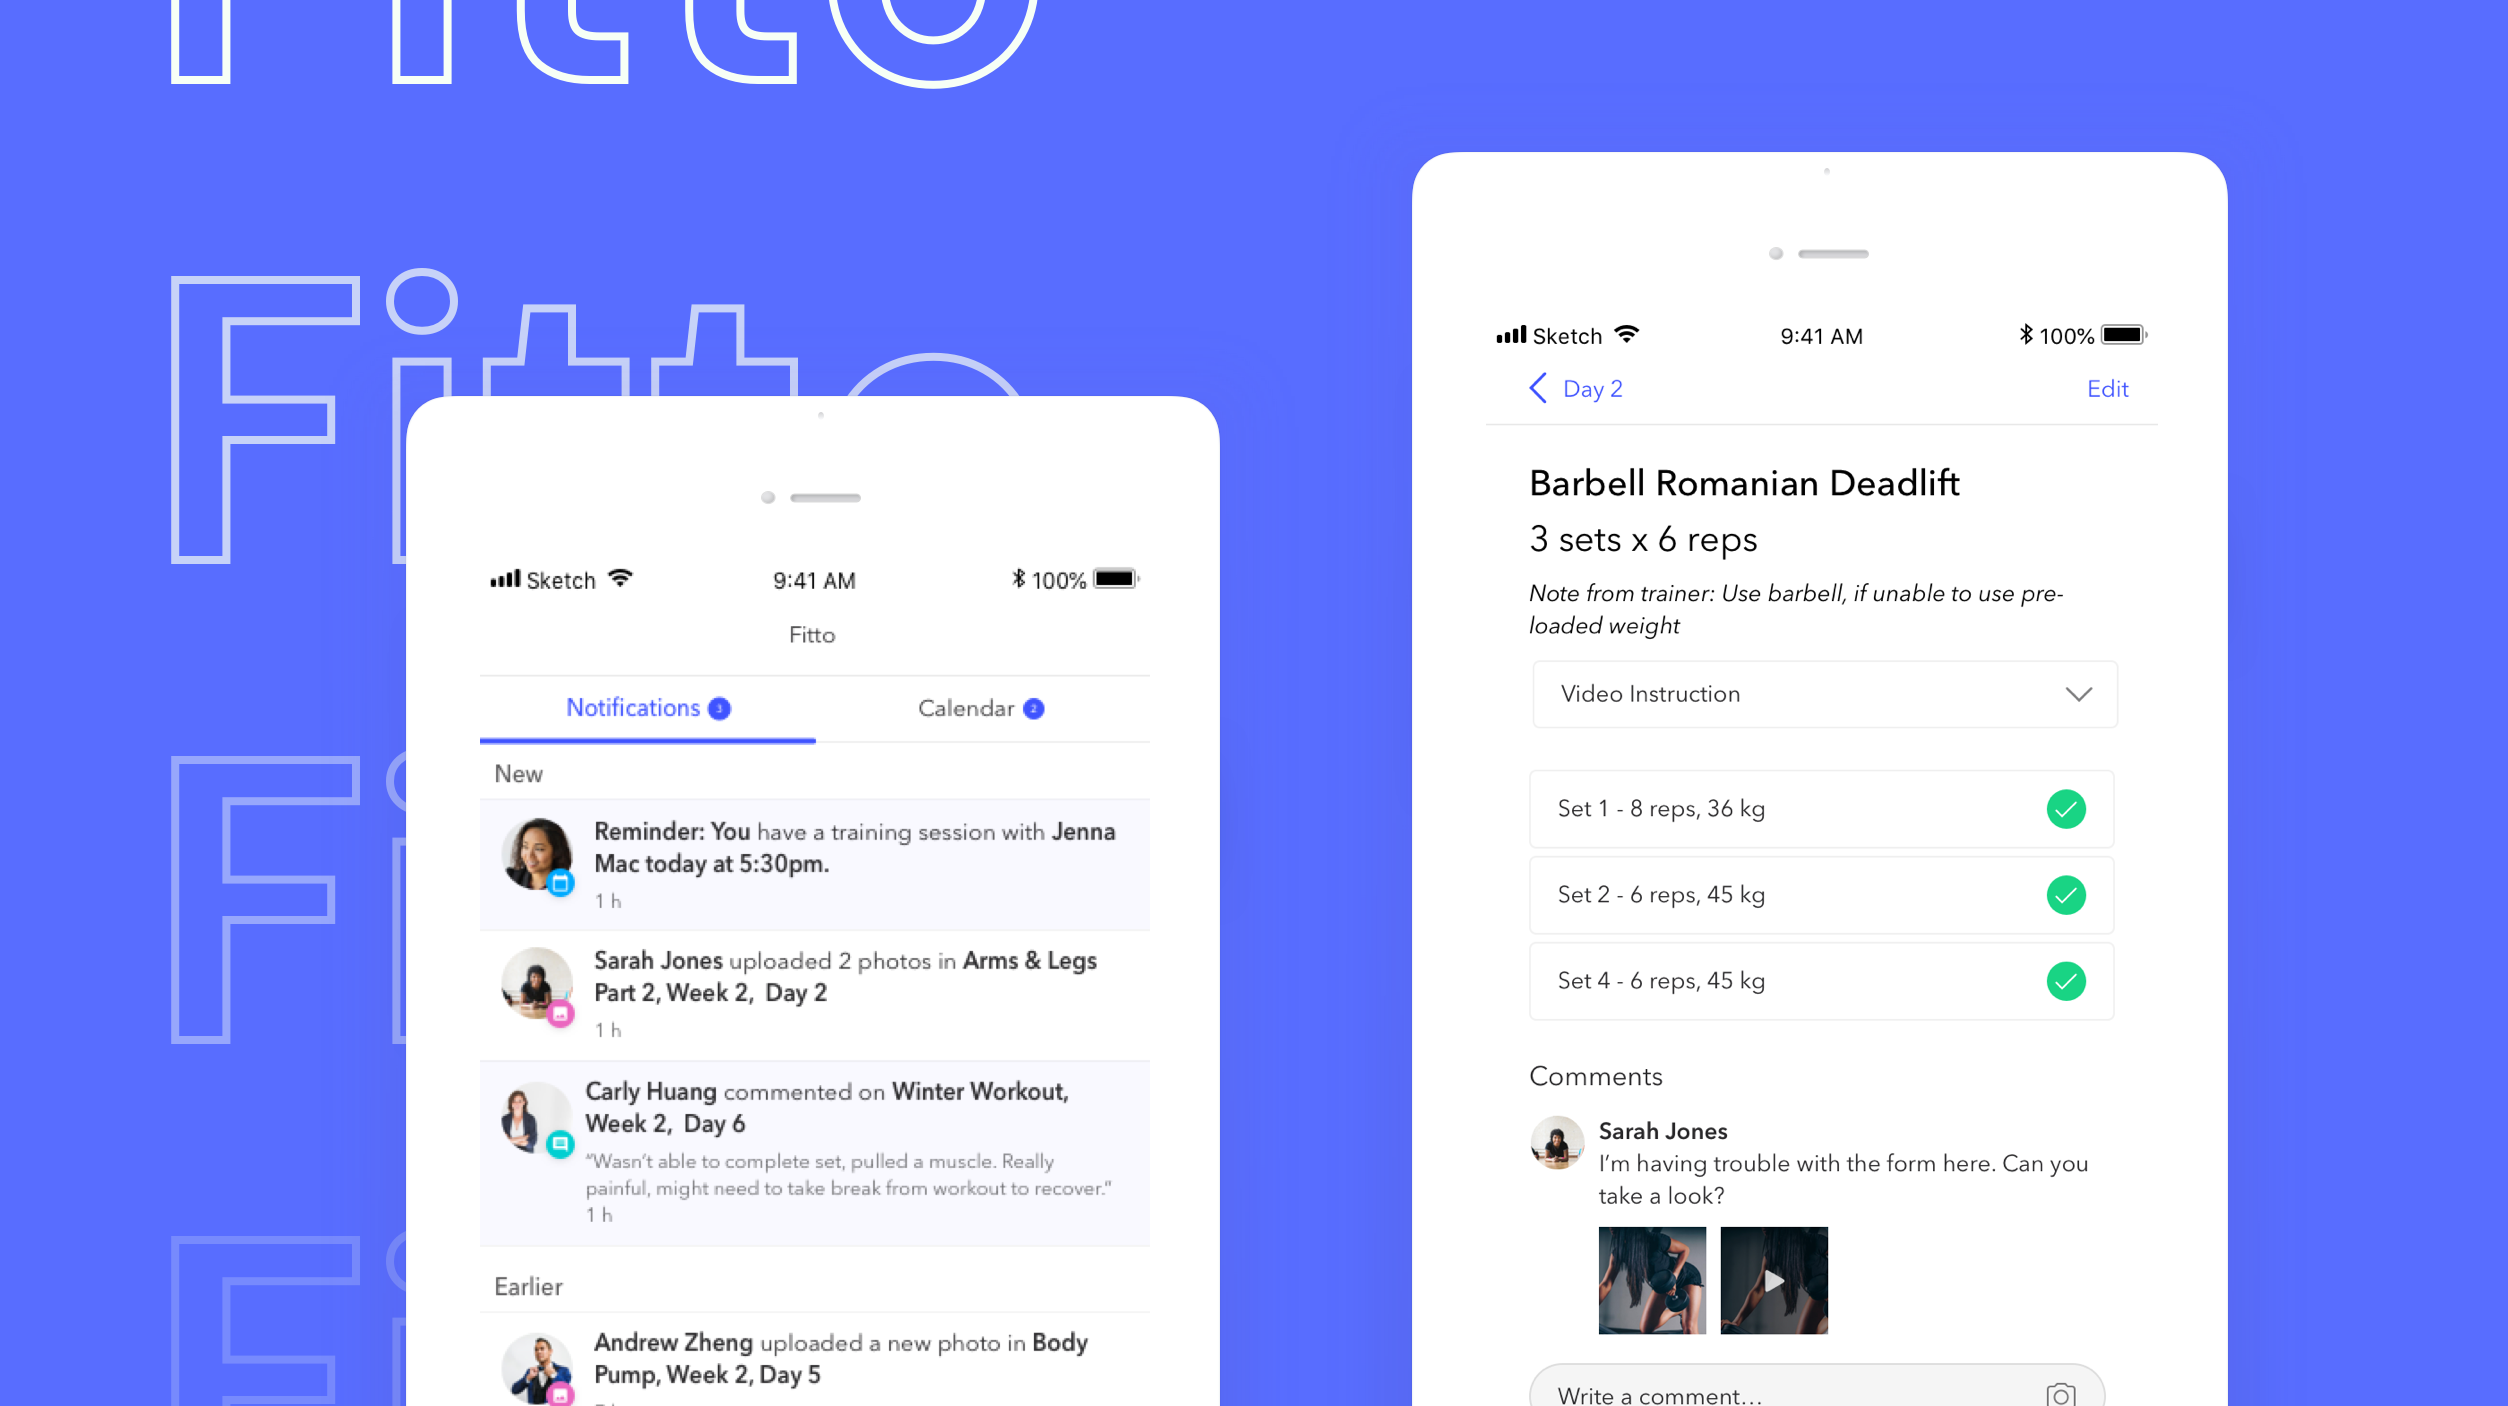
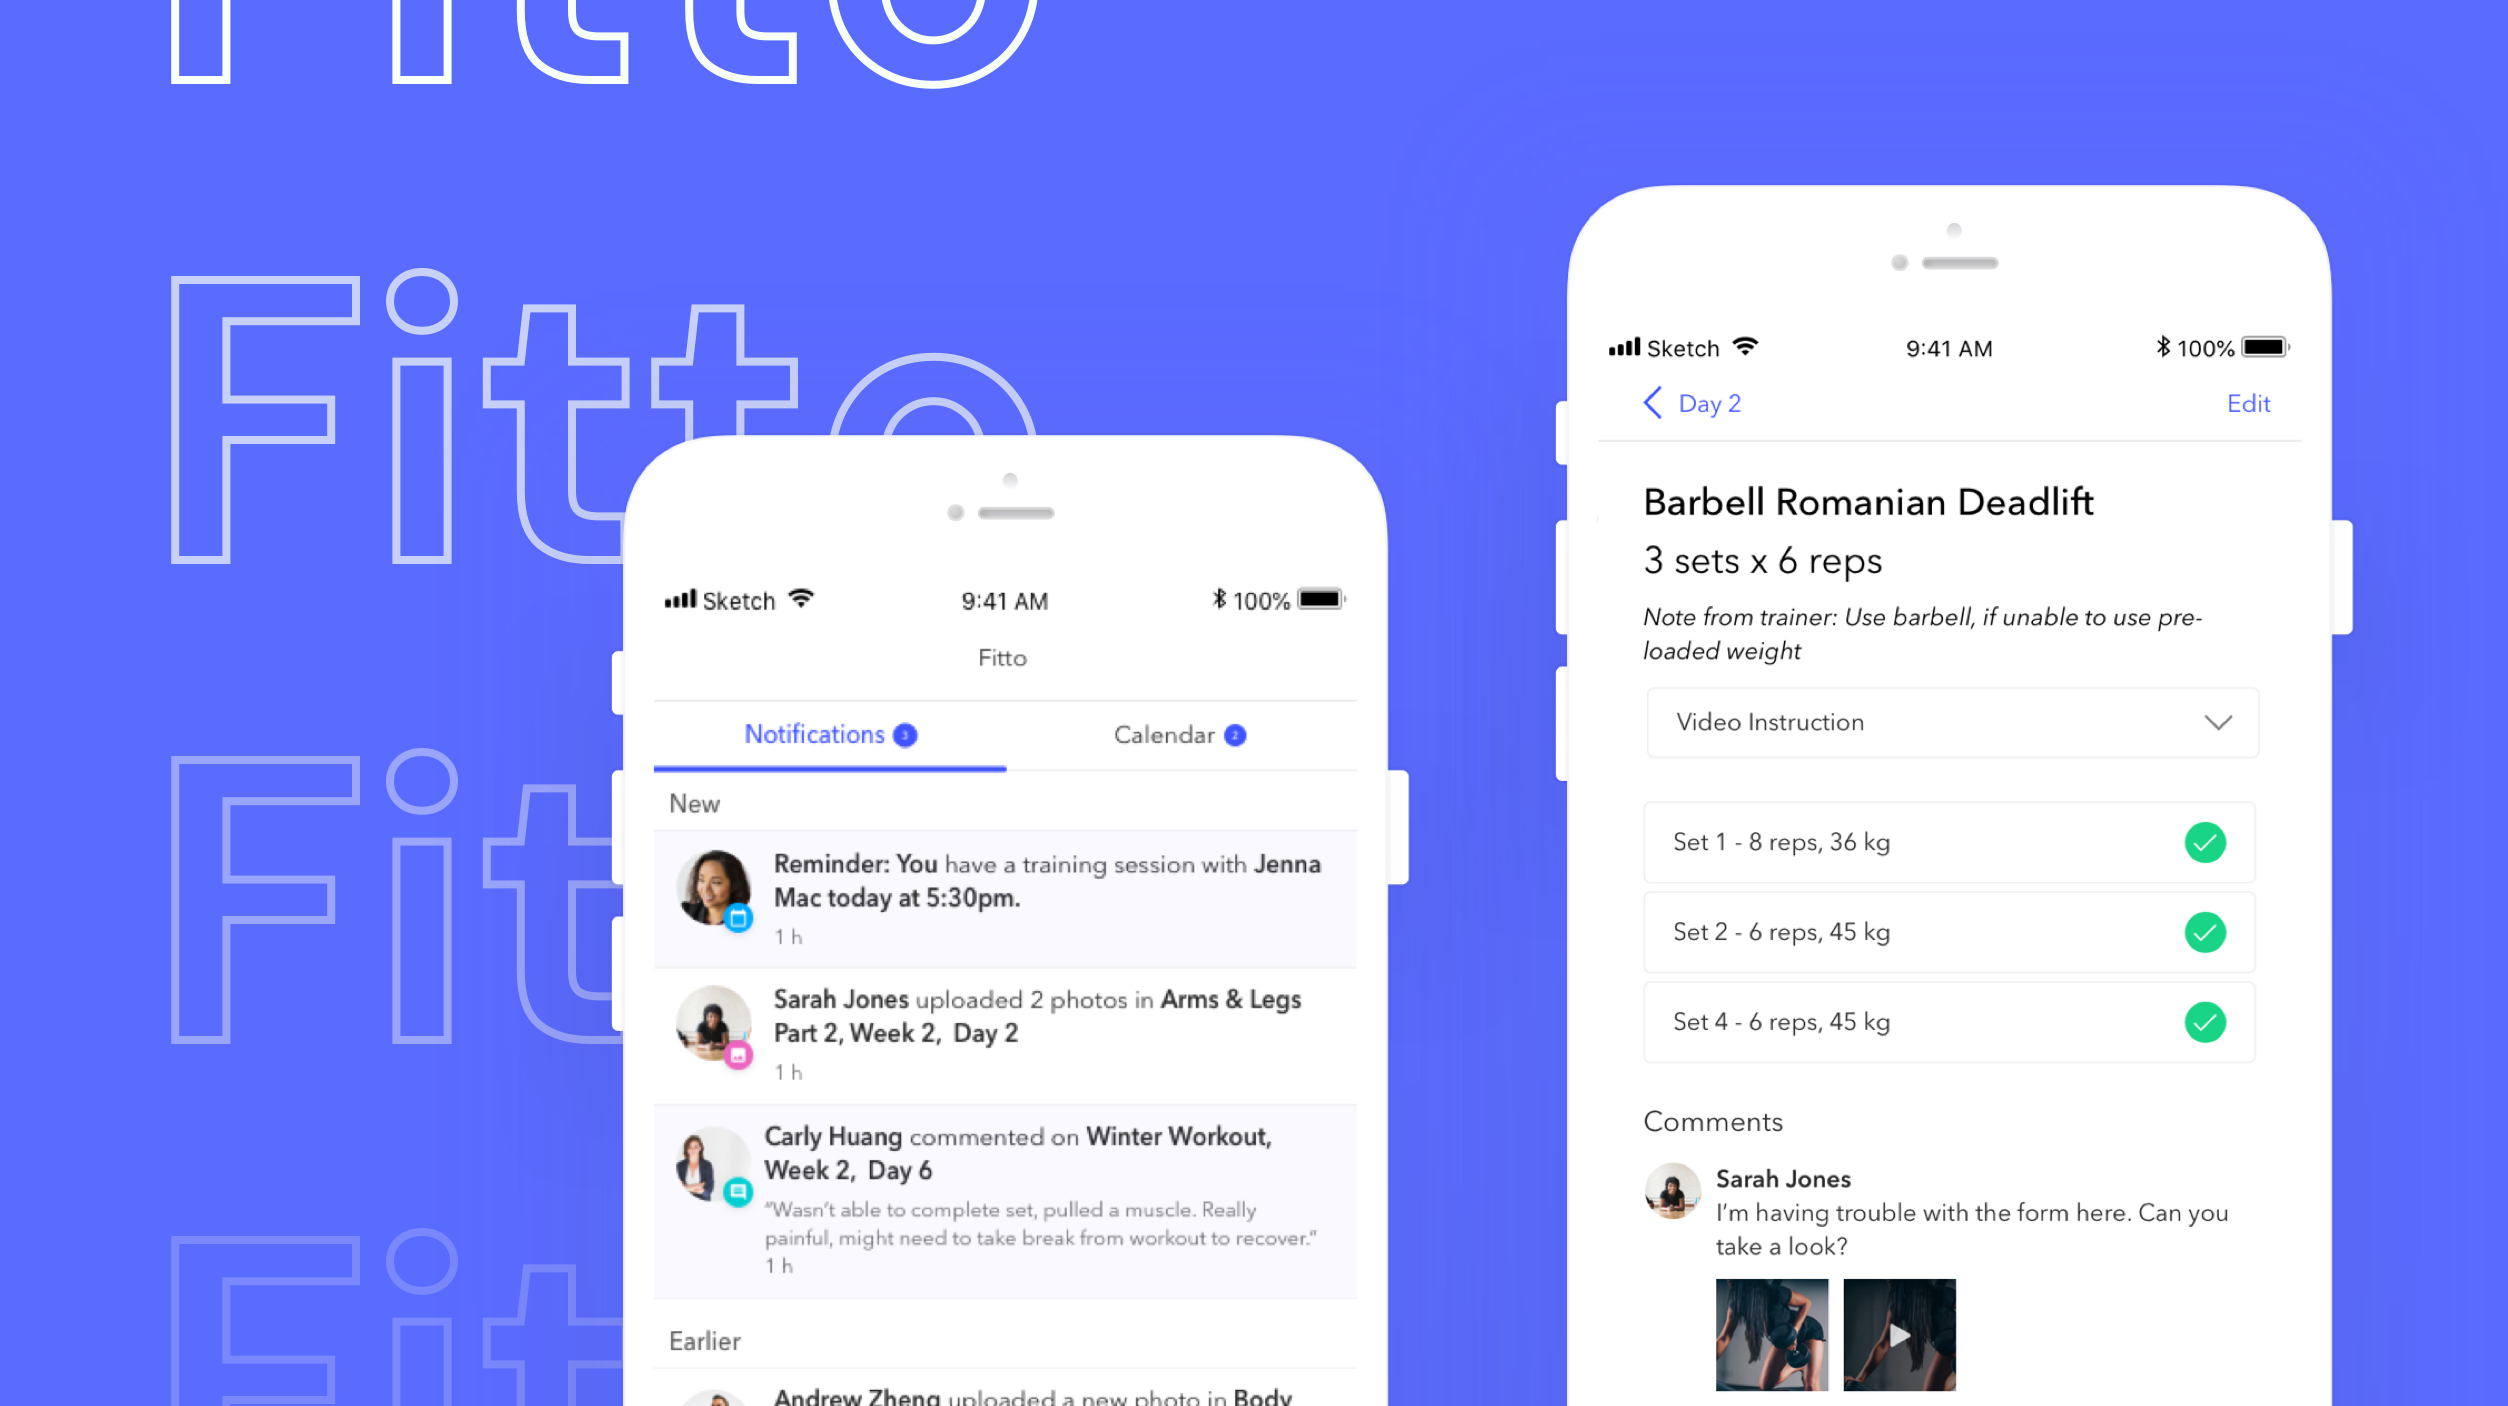
added newest images and changing up flow of shopify

diff --git a/shopify.html b/shopify.html
@@ -61,10 +61,10 @@
   <div class="container-fluid main-body">
     <!-- IMAGE  -->
     <!--  TODO long one photo -->
-    <img class="img-responsive shopify-image-cover" src="img/shopify-long-cover.png" alt="">
+    <img class="img-responsive" src="img/shopify-long-cover.png" alt="">
     <!-- OVERVIEW SUMMARY -->
     <div class="case-study-section-container">
-      <div class="case-study-section-info-container row">
+      <div class="case-study-section-info-container case-study-wider-container row">
         <div class="col-md-8">
           <h3 class="case-study-small-title">Project Overview</h3>
           <p class="case-study-small-text">Short sentence that sums up what the project is really aboutShort sentence that sums up what the project is really aboutShort sentence that sums up what the project is really about </p>
@@ -79,31 +79,63 @@
         </div>
         <div class="col-md-4">
           <h3 class="case-study-small-title">Timeline</h3>
-              <p class="case-study-small-text">4 months</p>
+              <p class="case-study-small-text">Internship (4 months)</p>
         </div>
       </div>
     </div>
 
-    <div class="case-study-section-container alt-1">
+    <div class="case-study-section-container alt-2">
       <div class="case-study-section-info-container">
-      <h3 class="case-study-small-header">OVERVIEW CHANGE THOUGH</h3>
-      <h1 class="case-study-large-header">My Role 🙋</h1>
+      <h3 class="case-study-small-header">INTRODUCTION</h3>
+      <h1 class="case-study-large-header">My Role</h1>
       <p class="case-study-paragraph">Championed a large service design research project, identified a key area to explore and proposed early design explorations for the future state of an internal support process.</p>
+      <div class="large-spacing"></div>
+      <h1 class="case-study-large-header">The Impact</h1>
+      <p class="case-study-paragraph">The team is now investing time to build out features for the problem areas I identified in my research. This service design work is reusable by many teams and will be contributing significantly to the product line’s top priority project this year.</p>
+      </div>
+    </div>
+    <div class="case-study-section-container">
+      <div class="case-study-section-info-container">
+      <h1 class="case-study-large-header">Project Context</h1>
+      <p class="case-study-paragraph">TODOChampioned a large service design research project, identified a key area to explore and proposed early design explorations for the future state of an internal support process.</p>
       </div>
     </div>
 
-    <div class="case-study-section-container alt-2 case-study-center">
+
+
+    <div class="case-study-section-container alt-1">
       <div class="case-study-section-info-container">
-      <h1 class="case-study-large-header">The Impact 👊</h1>
-      <p class="case-study-paragraph">The team is now investing time to build out features for the problem areas I identified in my research. This service design work is reusable by many teams and will be contributing significantly to the product line’s top priority project this year.</p>
+      <h1 class="case-study-large-header">Challenges</h1>
+      <p class="case-study-paragraph-title">Context heavy & complex problem space</p>
+      <p class="case-study-paragraph-small-less-wide">It required a lot of research to fully understand the pain points in the process we were exploring and how they affected our ecosystem of partners and merchants.</p>
+      <p class="case-study-paragraph-title">Vague Project</p>
+      <p class="case-study-paragraph-small-less-wide">This was a personal challenge but I learned to thrive in ambiguity in this internship. We didn’t have much defined for this project — no prior research, no scope and no idea what we would focus on. Our only goal was to improve the speed of the process.</p>
+      <p class="case-study-paragraph-title">Difficult to Measure Success</p>
+      <p class="case-study-paragraph-small-less-wide">Since the processes I was analyzing were complicated, there were many edge cases, seasonality effects and variables to account for — making it difficult to measure improvements.</p>
+
       </div>
     </div>
 
     <div class="case-study-section-container">
       <div class="case-study-section-info-container">
-        <h3 class="case-study-small-header">TIMELINES AND PROCESS</h3>
-      <h1 class="case-study-large-header">The Work 🔨</h1>
-      <p class="case-study-paragraph">This work is under NDA, so in this section I will be highlighting the work I accomplished during this internship.</p>
+        <h3 class="case-study-small-header">DIVING DEEP TO UNDERSTAND</h3>
+      <h1 class="case-study-large-header">Research</h1>
+      <p class="case-study-paragraph">I started <b>gathering context</b> by looking at past projects, research and experiments that were related to this process.</p>
+      <div class="card-like-container">
+        <div class="text-image-container">
+          <img class="blah-image" src="https://placehold.it/32x32" alt="">
+          <span class="blah-title">Contextual Inquiry</span>
+        </div>
+        <div class="blah-paragraph">After getting an initial understanding, I shadowed users performing the process to analyze the pain points.</div>
+      </div>
+      <div class="card-like-container">
+        <div class="text-image-container">
+          <img class="blah-image" src="https://placehold.it/32x32" alt="">
+          <span class="blah-title">User Interviews</span>
+        </div>
+        <div class="blah-paragraph">I conducted user and stakeholder interviews to understand the operational pain points and how it affects the ecosystem of merchants and partners.</div>
+      </div>
+
 
       <div class="timeline-line">
       </div>
@@ -118,14 +150,6 @@
         </div>
       </div>
 
-      </div>
-    </div>
-
-    <div class="case-study-section-container alt-1">
-      <div class="case-study-section-info-container">
-        <h3 class="case-study-small-header">REFLECTION</h3>
-      <h1 class="case-study-large-header">The Challenges ⛰</h1>
-      <p class="case-study-paragraph">This project started out very vague with only one metric we wanted to improve but the problem space was very complex. It required a lot of research to fully understand the pain points in the process we were exploring and how they affected other users in the ecosystem. <br><br>Then, after finally gathering all that information, it was challenging to pick the most impactful problems to focus on and to consolidate all the ideas into a useful solution. </p>
       </div>
     </div>
 
@@ -162,13 +186,13 @@
 
 
     <div class="case-study-section-container">
-      <div class="case-study-section-info-container">
+      <div class="case-study-section-info-container case-study-wider-container">
       <h1 class="case-study-large-header">See Other Projects</h1>
       <div class="row">
       <div class="case-study-card-container col-md-6">
         <div onclick="location.href='tcr.html';" class="case-study-card">
           <div id="design-project-2" class=" project-image-container">
-            <img class="img-responsive project-image" src="img/tcr-cover.png" alt="">
+            <img class="img-responsive project-image" src="img/tcr-new.png" alt="">
             <div class="project-information">
               <h3 class="design-date">2019 • Toronto Cat Rescue • Volunteering</h3>
               <h1 class="design-title">Managing Cat Adoption</h1>
@@ -182,7 +206,7 @@
         <div class="case-study-card-container col-md-6">
         <div onclick="location.href='fitto.html';" class="case-study-card">
             <div id="design-project-2" class=" project-image-container">
-              <img class="img-responsive project-image" src="img/fitto.png" alt="">
+              <img class="img-responsive project-image" src="img/fitto-new.png" alt="">
               <div class="project-information">
                 <h3 class="design-date">2019 • Fitto App • Personal Project</h3>
                 <h1 class="design-title">Remote Fitness Training</h1>

diff --git a/tcr.html b/tcr.html
@@ -61,7 +61,7 @@
   <div class="container-fluid main-body">
     <!-- IMAGE  -->
     <!--  TODO long one photo -->
-    <img class="img-responsive shopify-image-cover" src="img/shopify-cover.png" alt="">
+    <img class="img-responsive" src="img/tcr-long-cover.png" alt="">
     <!-- OVERVIEW SUMMARY -->
     <div class="case-study-section-container">
       <div class="case-study-section-info-container row">
@@ -110,8 +110,8 @@
 
     <div class="case-study-section-container alt-2 case-study-center">
       <div class="case-study-section-info-container">
-      <h1 class="case-study-large-header">The Stages</h1>
-      <p class="case-study-paragraph">Need divs here </p>
+      <h1 class="case-study-large-header extra-bottom-margin">The Stages</h1>
+      <img class="img-responsive" src="img/stages.png" alt="">
       </div>
     </div>
 
@@ -167,7 +167,7 @@
       <div class="case-study-card-container col-md-6">
         <div onclick="location.href='shopify.html';" class="case-study-card">
           <div id="design-project-2" class=" project-image-container">
-            <img class="img-responsive project-image" src="img/shopify-cover.png" alt="">
+            <img class="img-responsive project-image" src="img/shopify-new.png" alt="">
             <div class="project-information">
               <h3 class="design-date">2019 • Shopify • Internship</h3>
               <h1 class="design-title">Platform (App Store Team)</h1>
@@ -181,7 +181,7 @@
         <div class="case-study-card-container col-md-6">
         <div onclick="location.href='fitto.html';" class="case-study-card">
             <div id="design-project-2" class=" project-image-container">
-              <img class="img-responsive project-image" src="img/fitto.png" alt="">
+              <img class="img-responsive project-image" src="img/fitto-new.png" alt="">
               <div class="project-information">
                 <h3 class="design-date">2019 • Fitto App • Personal Project</h3>
                 <h1 class="design-title">Remote Fitness Training</h1>

diff --git a/css/pages-styles.css b/css/pages-styles.css
@@ -9,7 +9,7 @@
 .case-study-section-info-container,
 .case-study-section-info-container-image-below { /* TODO */
   width: 81%;
-  width: 700px;
+  width: 600px;
   padding: 120px 0;
   margin: auto;
 }
@@ -55,7 +55,7 @@
 
 .case-study-paragraph {
   font-weight: 400;
-  font-size: 20px;
+  font-size: 18px;
   line-height: 30px;
   color: #101010;
 }
@@ -118,10 +118,72 @@ a.case-study-paragraph-link {
   font-size: 16px;
   font-weight: 400;
 }
-/*  UNIQUE */
-.shopify-image-cover {
-  /* height: 200px; */
+
+h1.case-study-large-header.extra-bottom-margin {
+  padding-bottom: 32px;
 }
+
+p.case-study-paragraph-small-less-wide {
+  width: 600px;
+  font-weight: 400;
+  font-size: 16px;
+  line-height: 24px;
+  margin-bottom: 32px;
+}
+
+.case-study-paragraph-title {
+  font-weight: 700;
+  font-size: 18px;
+  line-height: 30px;
+  color: #101010;
+  width: 600px;
+  margin-bottom: 0;
+}
+
+.large-spacing {
+  padding: 32px;
+}
+
+div.case-study-wider-container { /* TODO */
+  width: 81%;
+  width: 780px;
+  padding: 120px 0;
+  margin: auto;
+}
+/*  UNIQUE */
+
+.card-like-container {
+  padding: 24px;
+  border: 1px solid #eee;
+  border-radius: 2px;
+  width: 500px;
+  margin: 20px 0;
+}
+
+.text-image-container {
+  padding-bottom: 16px;
+  display: flex;
+  align-items: center;
+}
+
+.blah-image {
+  display: inline-block;
+}
+
+.blah-title {
+  font-size: 20px;
+  font-weight: 700;
+  margin: 0;
+  padding-left: 8px;
+
+
+}
+.blah-paragraph {
+  font-size: 16px;
+  color: #555;
+
+}
+
 
 .timeline-line {
   margin-left: 8px;

diff --git a/index.html b/index.html
@@ -84,7 +84,7 @@
                  <div class="col-md-6">
                    <div class="project-information">
                      <h3 class="design-date">2019 • Shopify • Internship</h3>
-                     <h1 class="design-title">Platform (App Store Team)</h1>
+                     <h1 class="design-title">Platform - App Store Team</h1>
                      <h1 class="design-description">Speeding up processes and making them more robust through service design</h1>
                      <div class="tag_case_study">service design</div><div class="tag_case_study">user research</div><div class="tag_case_study">product management</div>
                      <a href="shopify.html"><button type="button" class="design-read-study-btn">Read Case Study →</button></a>

diff --git a/fitto.html b/fitto.html
@@ -58,7 +58,7 @@
       </ul>
     </div>
   </nav>
-  <img class="case-img img-responsive" src="img/fitto-full-img.png" alt="">
+  <img class="img-responsive" src="img/fitto-long-cover.png" alt="">
   <div class="container-fluid case-study">
     <h1 class="portfolio-section-sub-heading">Fitto iOS App</h1>
     <p class="portfolio-section-paragraph">Fitto is a mobile app that helps trainers coach clients when they can’t be there in person.</p>
